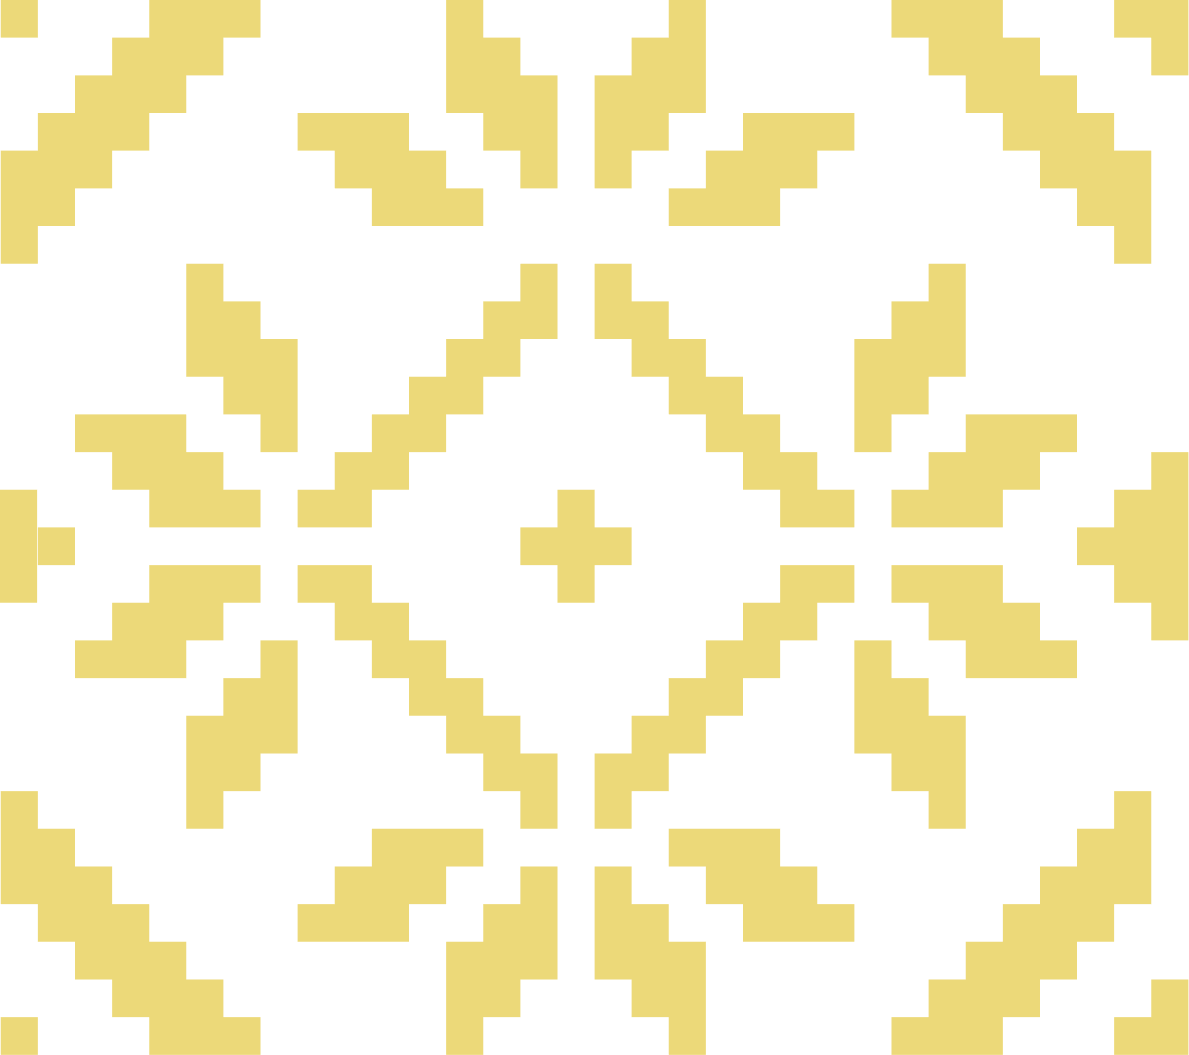
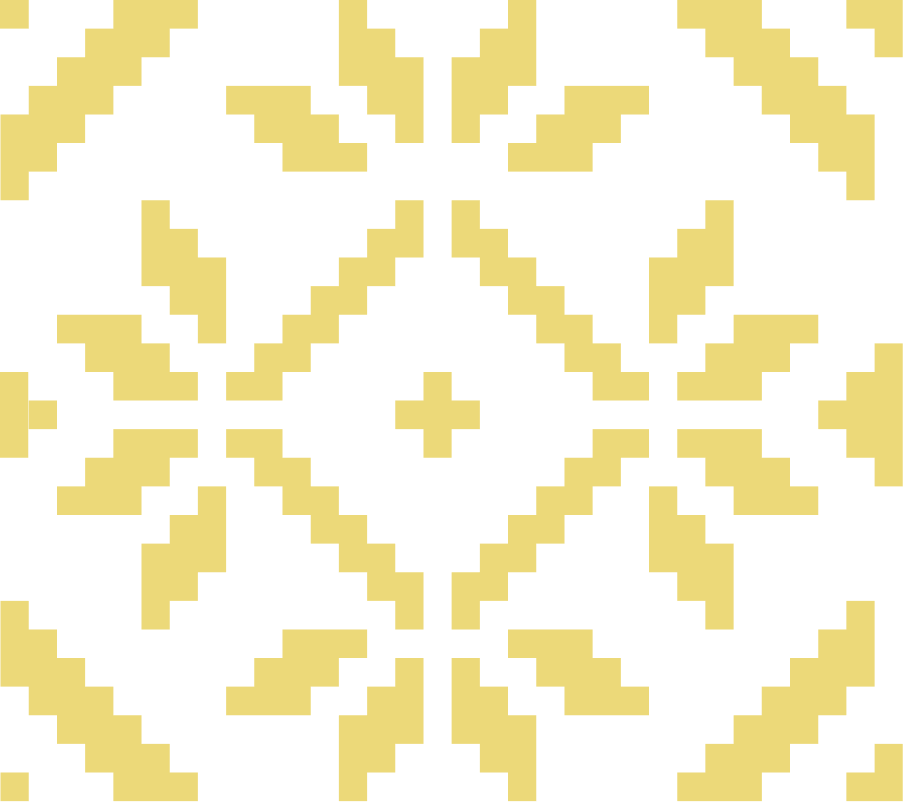
corected mob tab footer section
1. corected menu
2. img mobile repeat

diff --git a/src/css/footer.css b/src/css/footer.css
@@ -3,28 +3,27 @@
   padding-top: 40px;
 
   background-image: url(../img/section-footer/ornament@1x.png);
-  background-repeat: no-repeat;
+  background-repeat: repeat no-repeat;
   background-position: center top calc(50% + 326px);
-  background-size: 375px 212px;
+  background-size: 452px 401px;
 
   border-top: 1px solid rgba(252, 249, 249, 0.1);
 }
 
-/* @media only screen and (max-width: 767px) and (min-device-pixel-ratio: 2),
+@media only screen and (max-width: 767px) and (min-device-pixel-ratio: 2),
   (max-width: 767px) and (min-resolution: 192dpi) {
   .footer {
     background-image: url(../img/section-footer/ornament@2x.png);
   }
-} */
+}
 
-/* @media only screen and (min-width: 768px) {
+@media only screen and (min-width: 768px) {
   .footer {
     min-height: 0;
     padding-bottom: 40px;
+    background-repeat: no-repeat;
 
-    background-image: url(../img/section-footer/ornament@1x.png);
     background-position: top 53% left calc(50% + 434px);
-    background-size: 452px 401px;
   }
 }
 
@@ -39,37 +38,40 @@
   .footer {
     background-image: url(../img/section-footer/ornament@2x.png);
   }
-} */
+}
 
-.footer-menu {
+.footer-menu-wrap {
   display: flex;
-  flex-wrap: wrap;
-  column-gap: 40px;
-  row-gap: 25px;
-
+  gap: 40px;
   margin-bottom: 40px;
 }
 
 @media only screen and (min-width: 768px) {
-  .footer-menu {
-    margin-bottom: 80px;
+  .footer-menu-wrap {
     gap: 25px;
+    margin-bottom: 80px;
   }
 }
 
-.footer-item:first-child {
+.footer-menu {
+  display: flex;
+  flex-direction: column;
+  gap: 25px;
+}
+
+@media only screen and (min-width: 768px) {
+  .footer-menu {
+    flex-direction: row;
+  }
+}
+
+.footer-item-margin {
   margin-right: 49px;
 }
 
 @media only screen and (min-width: 768px) {
-  .footer-item:first-child {
+  .footer-item-margin {
     margin-right: 0;
-  }
-}
-
-@media only screen and (min-width: 768px) {
-  .footer-item:nth-child(even) {
-    order: 2;
   }
 }
 

diff --git a/src/partials/footer.html b/src/partials/footer.html
@@ -1,19 +1,23 @@
 <footer id="footer" class="footer">
   <div class="container">
-    <ul class="footer-menu">
-      <li class="footer-item">
-        <a class="footer-link" href="">About us</a>
-      </li>
-      <li class="footer-item">
-        <a class="footer-link" href="">Customer order</a>
-      </li>
-      <li class="footer-item">
-        <a class="footer-link" href="#customer-order">Our collection</a>
-      </li>
-      <li class="footer-item">
-        <a class="footer-link" href="">TEstimonials</a>
-      </li>
-    </ul>
+    <div class="footer-menu-wrap">
+      <ul class="footer-menu">
+        <li class="footer-item footer-item-margin">
+          <a class="footer-link" href="">About us</a>
+        </li>
+        <li class="footer-item">
+          <a class="footer-link" href="">Our collection</a>
+        </li>
+      </ul>
+      <ul class="footer-menu">
+        <li class="footer-item">
+          <a class="footer-link" href="">Customer order</a>
+        </li>
+        <li class="footer-item">
+          <a class="footer-link" href="">TEstimonials</a>
+        </li>
+      </ul>
+    </div>
     <p class="footer-title">
       A touch of <span class="acent-text">Ukrainian</span> culture in every
       embroidery
